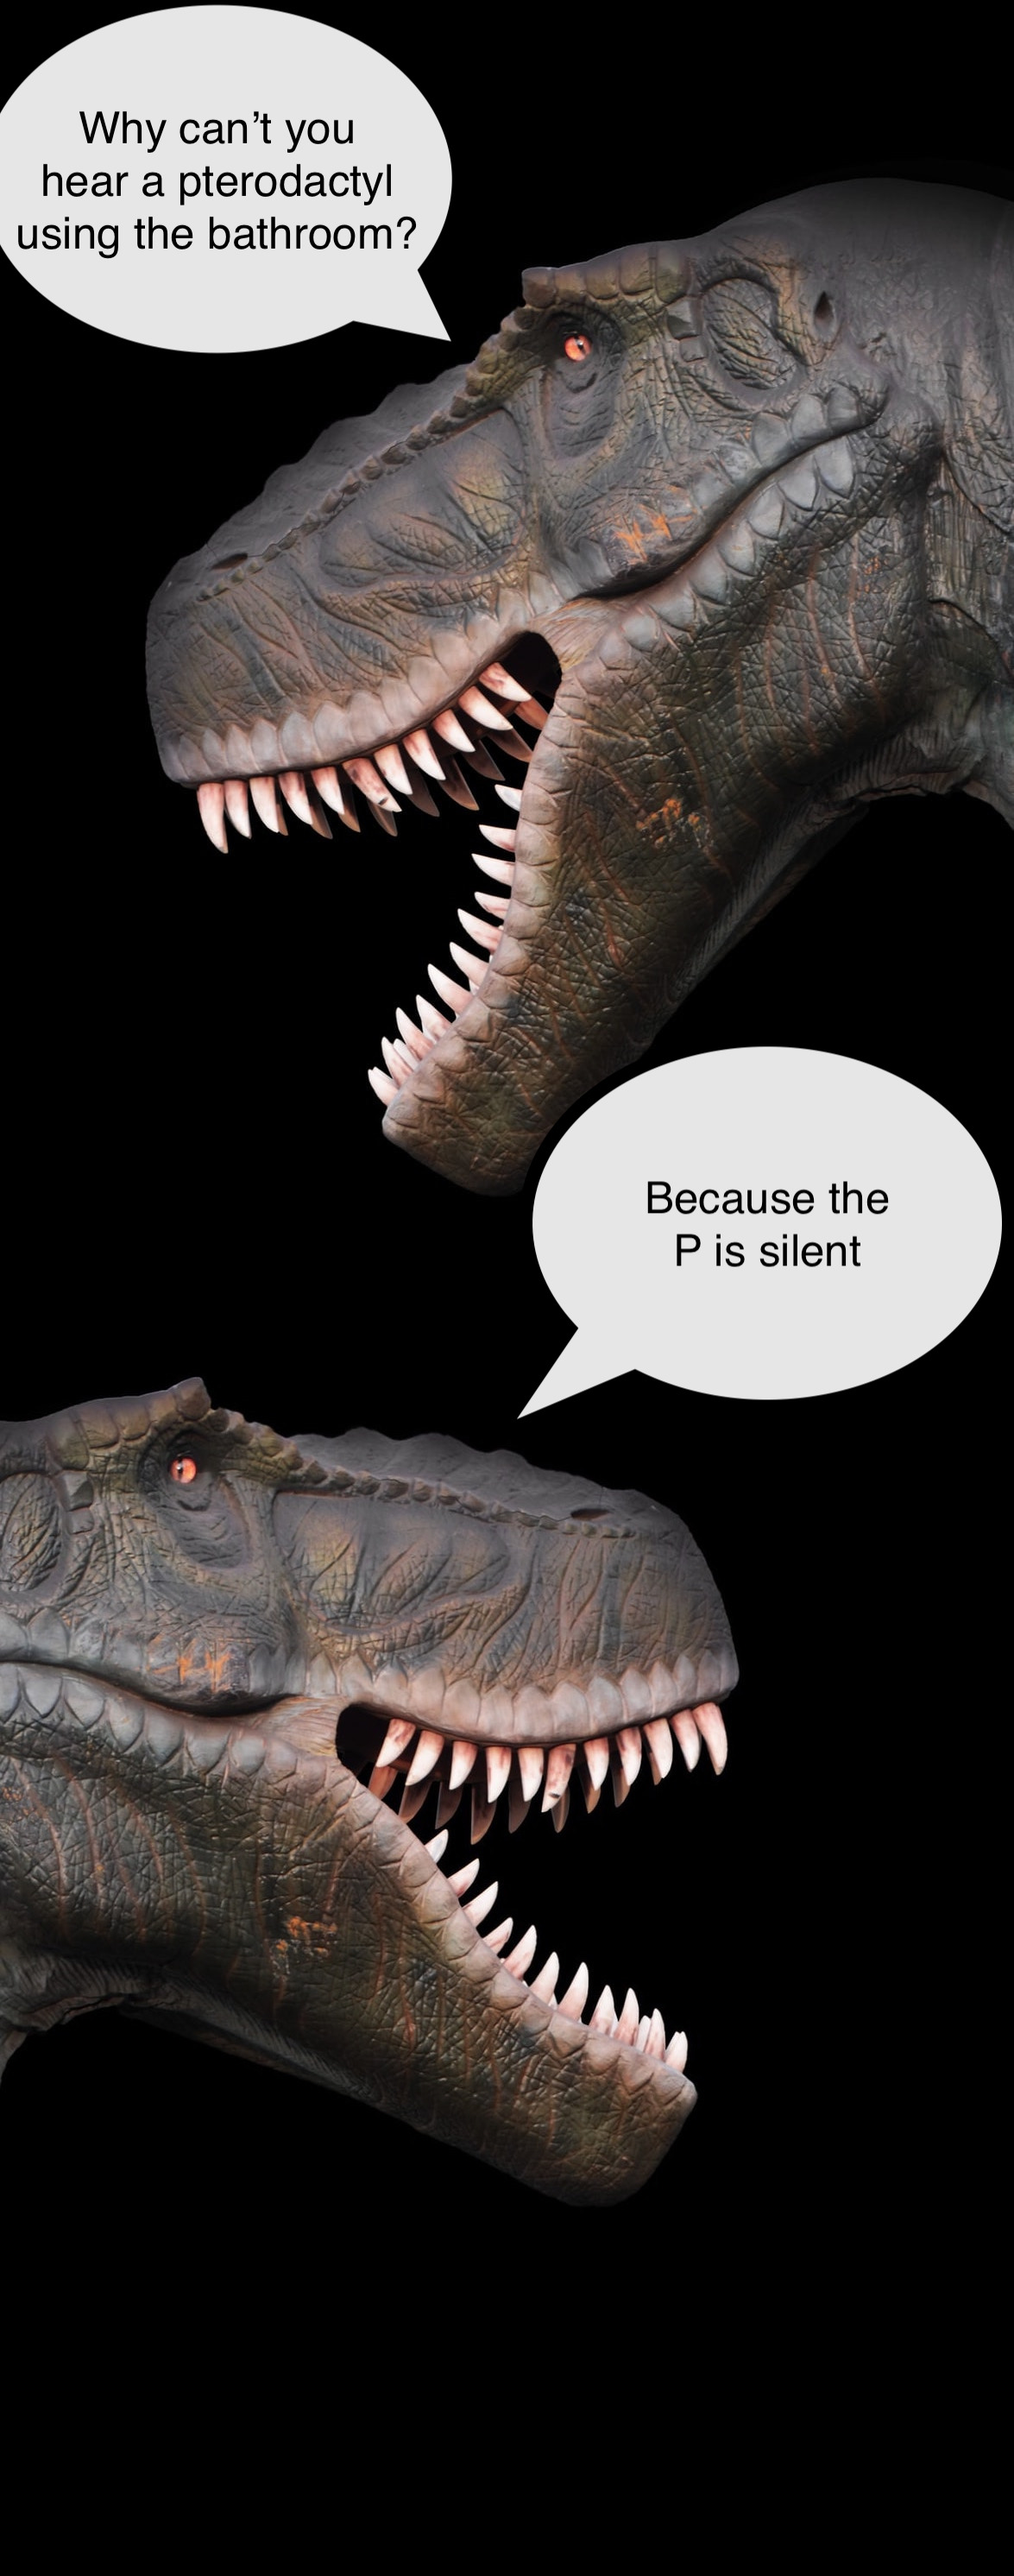
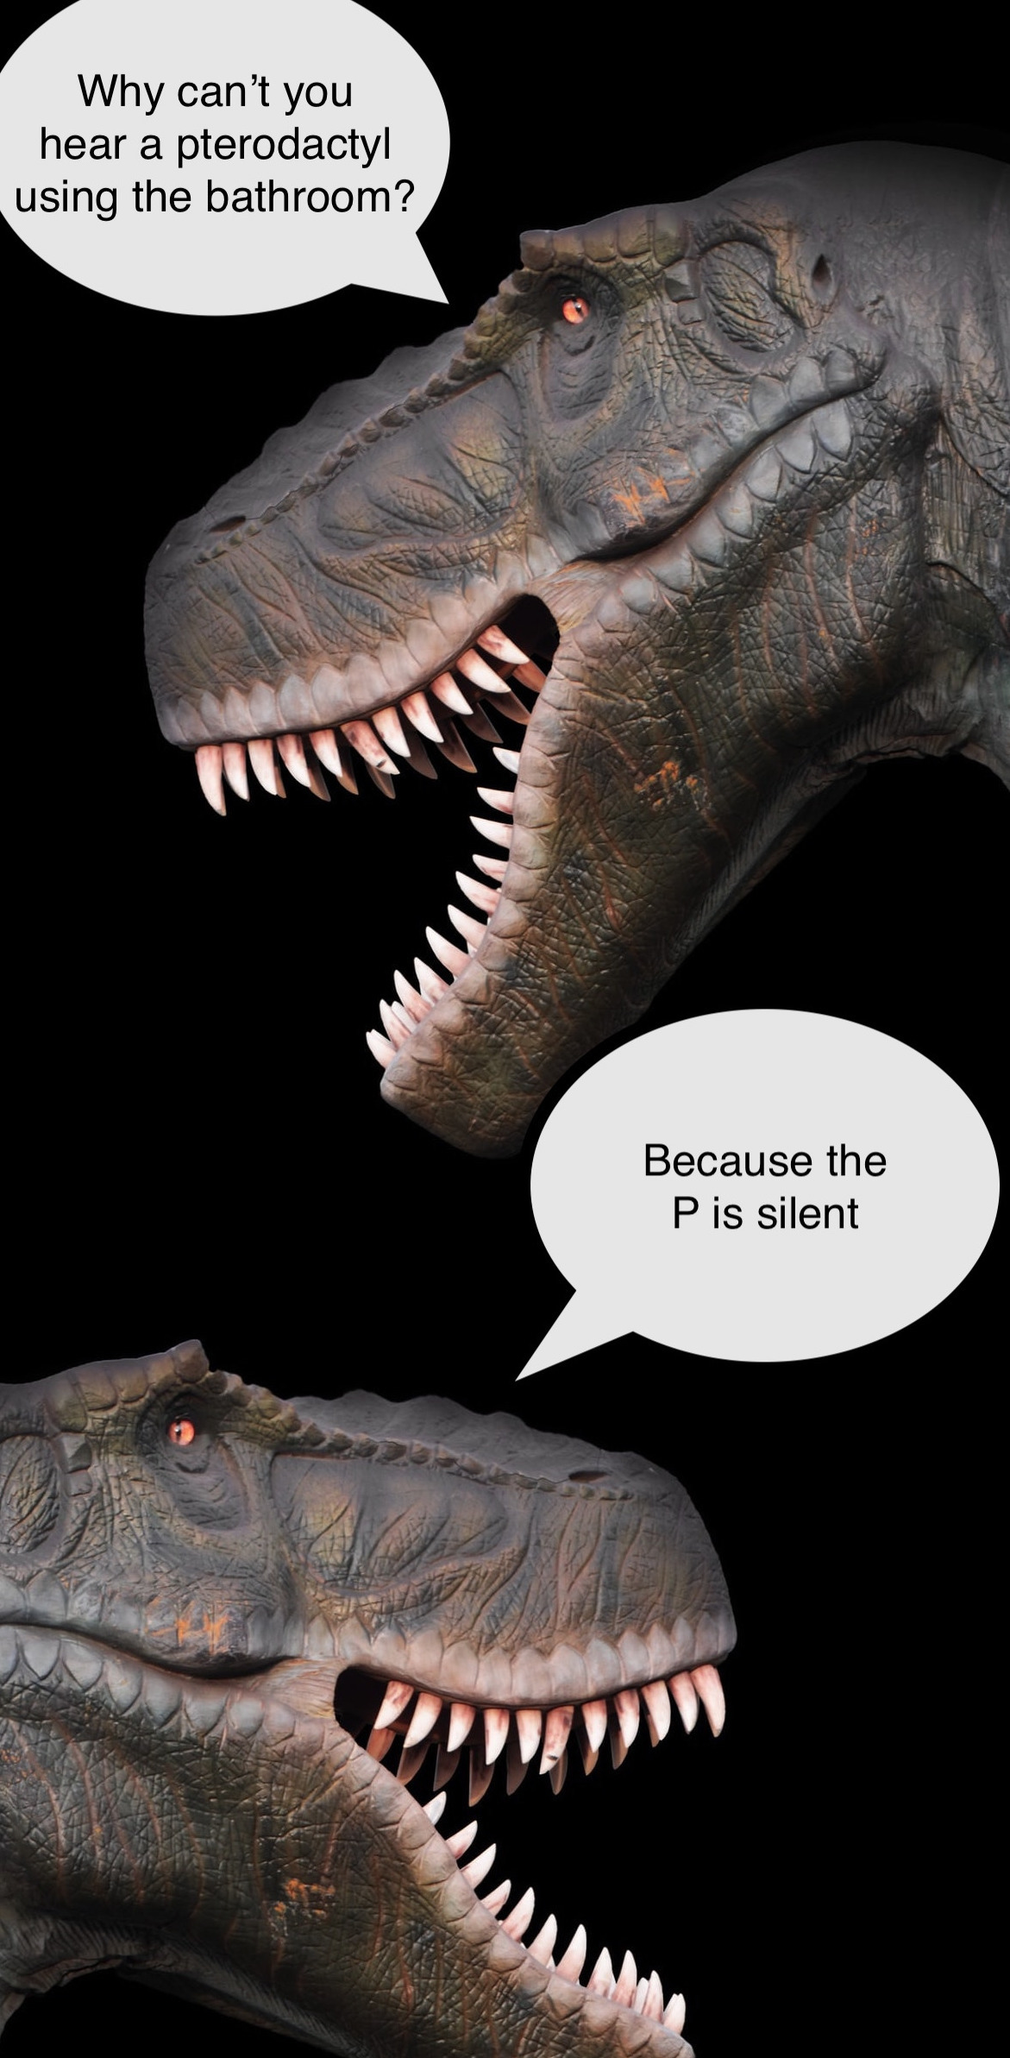
changing the header on index

diff --git a/app/assets/stylesheets/jokes/_index.scss b/app/assets/stylesheets/jokes/_index.scss
@@ -6,12 +6,13 @@
 
 .jokes-header {
   height: 80px;
-  background-color: $light-blue;
+  background-color: black;
   display: flex;
   align-items: flex-end;
-  border-bottom: 3px solid rgba(30,30,30,0.8);
+  // border-bottom: 3px solid rgba(30,30,30,0.8);
   h1 {
-    color: rgba(40, 40, 40, 0.9);
+    // color: rgba(40, 40, 40, 0.9);
+    color: white;
     padding-left: 30px;
   }
 }
@@ -22,5 +23,6 @@
 
 .joke-image {
   width: 100%;
-  // height: 90vh;
+
+  object-fit: scale-down;
 }

diff --git a/app/assets/stylesheets/pages/_home.scss b/app/assets/stylesheets/pages/_home.scss
@@ -15,3 +15,7 @@
   width: 50%;
   text-align: center;
 }
+
+body {
+  overflow-x: hidden;
+}
